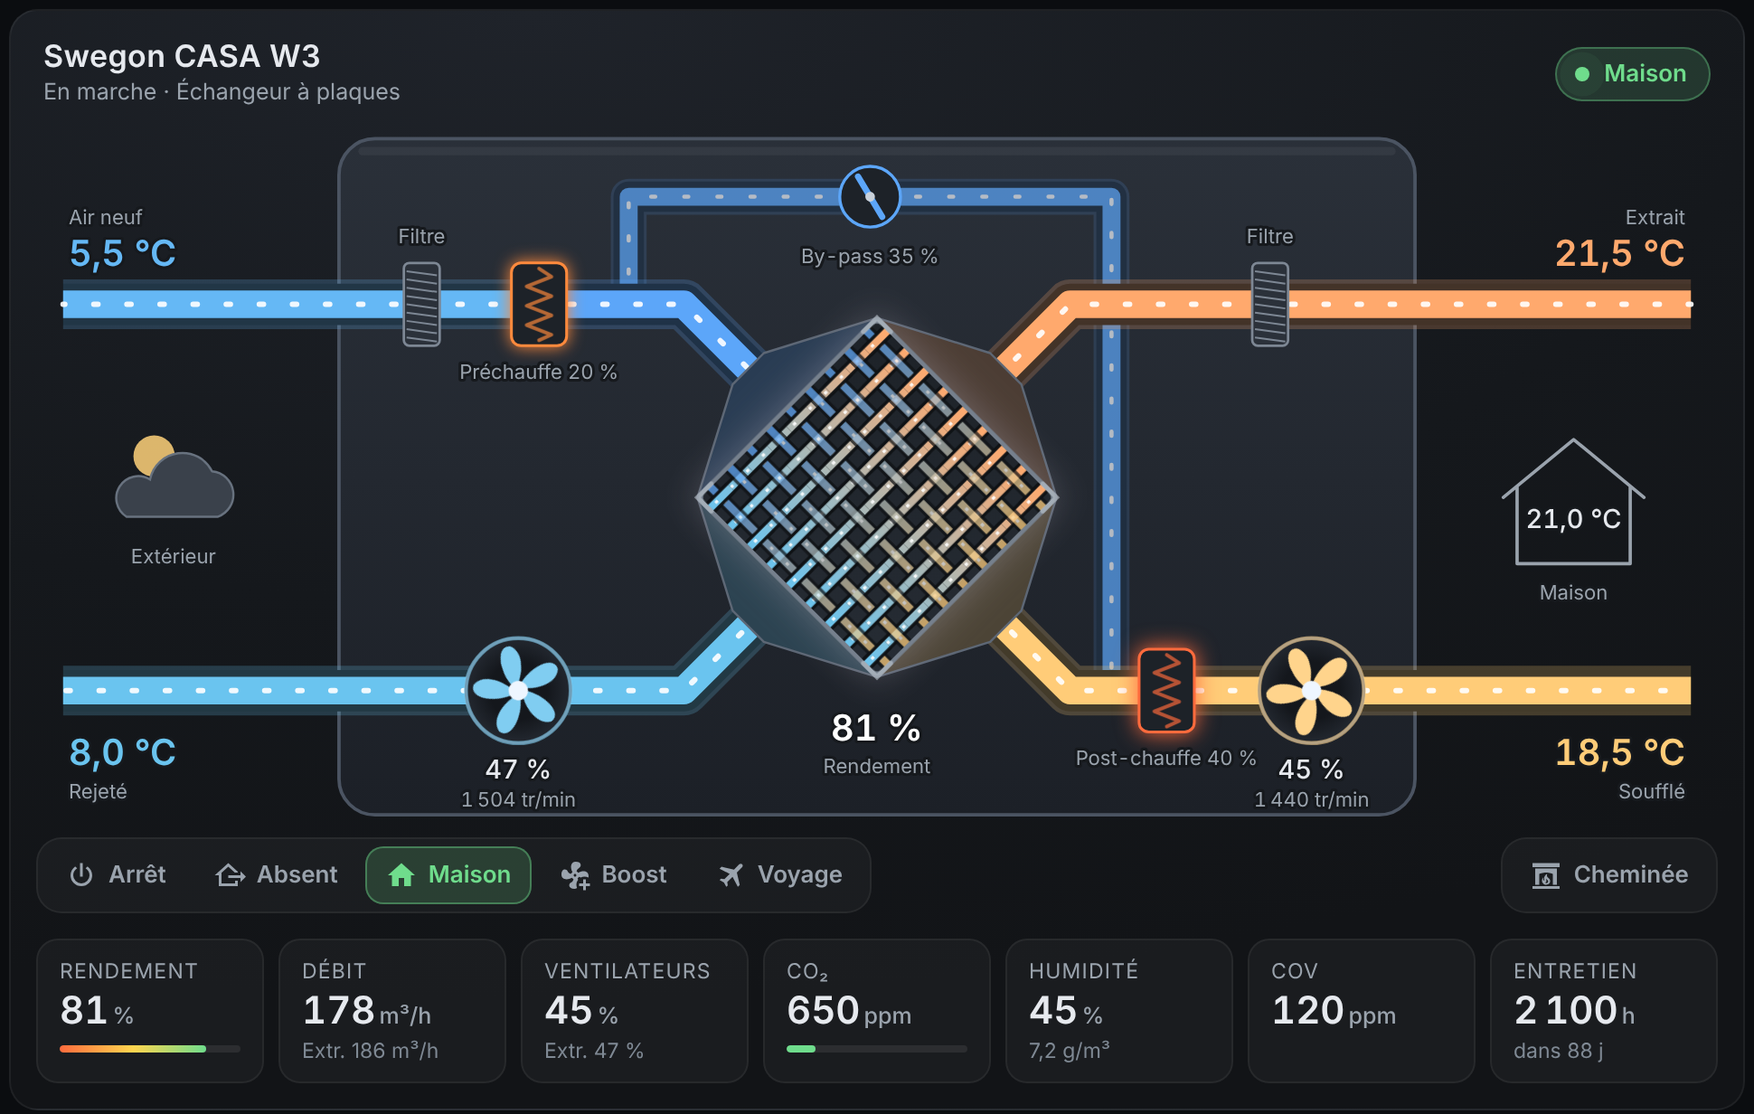
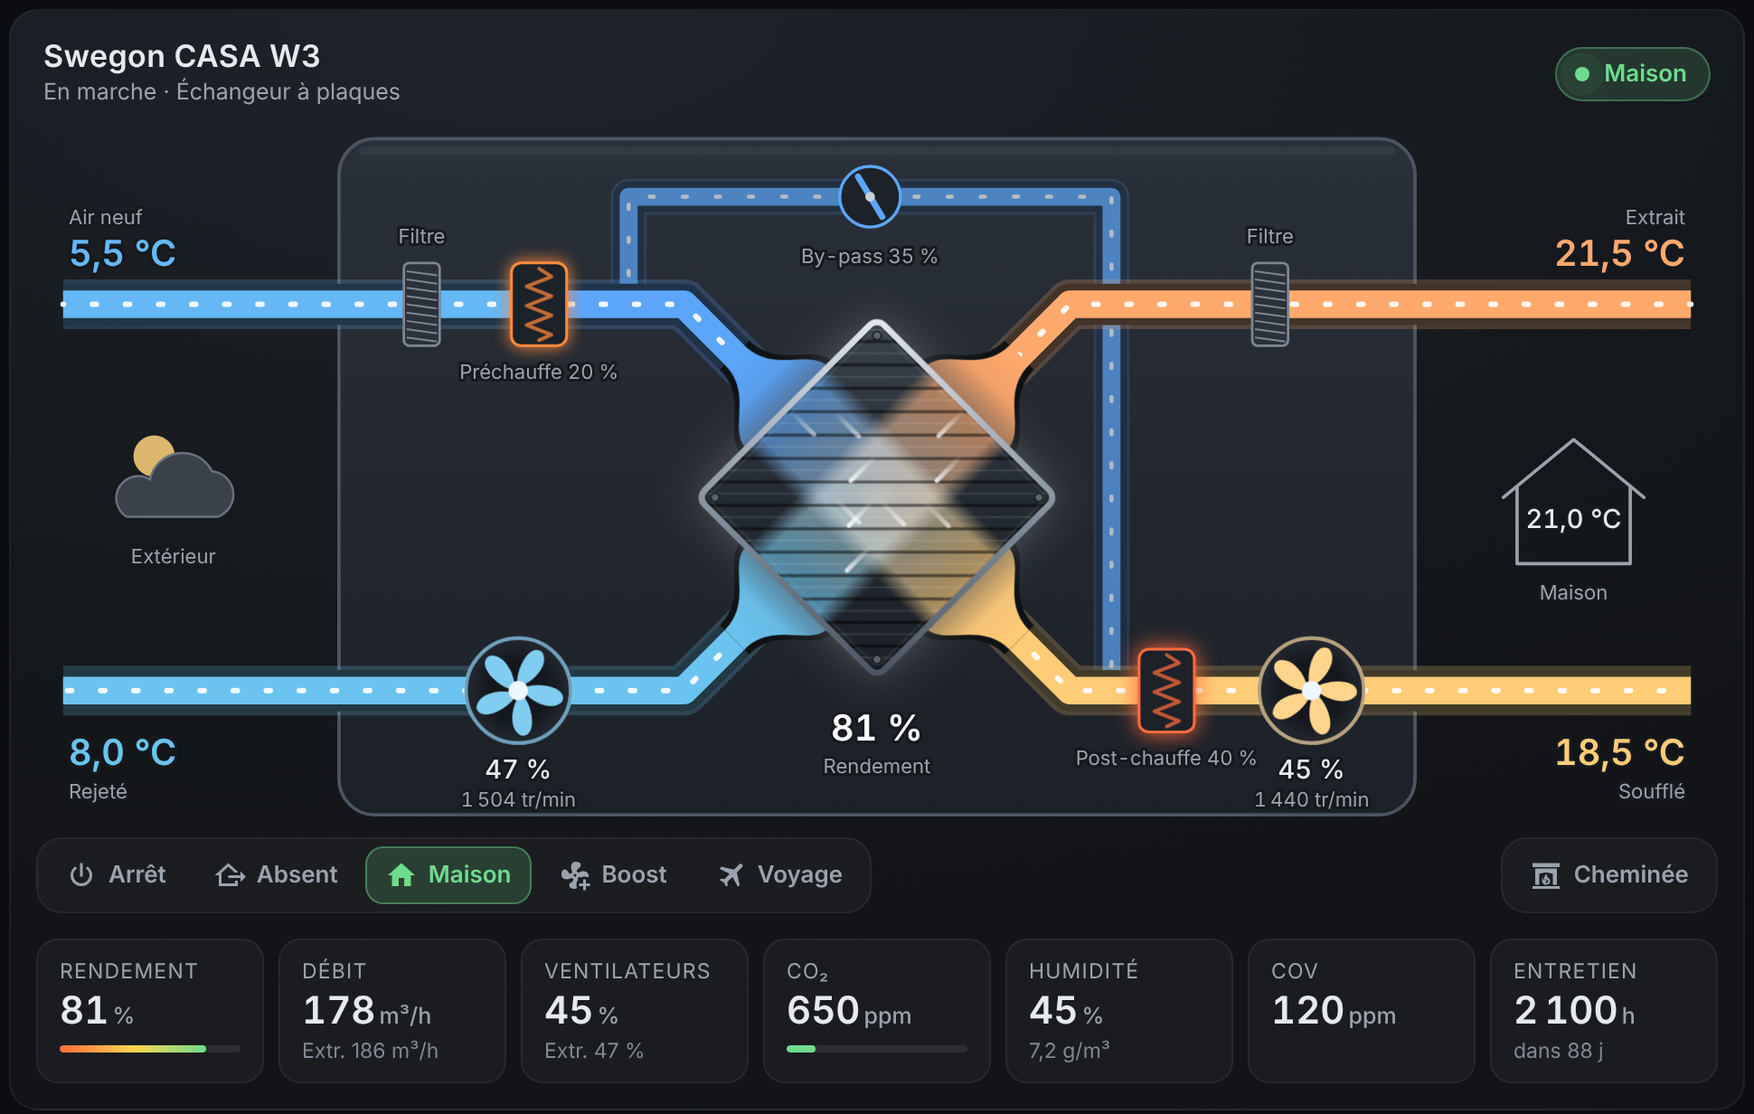
0.2.1: new plate exchanger drawing
Brushed-metal plate stack with a bevelled frame; each air stream crosses
it as a light ribbon coloured from inlet to outlet temperature, seen
through the plates, with streaks moving at fan speed. Curved collars join
the ducts to the exchanger faces. Replaces the woven channels.

Claude-Session: https://claude.ai/code/session_01EpAdakSgqwUMojDfF9bcbk

Changed region(s): [[0.4021, 0.2776, 0.6186, 0.6169], [0.2474, 0.586, 0.3402, 0.6786], [0.7113, 0.586, 0.7732, 0.6786]]

diff --git a/custom_components/swegon_casa/frontend/swegon-casa-card.js b/custom_components/swegon_casa/frontend/swegon-casa-card.js
@@ -14,7 +14,7 @@
  */
 
 const DOMAIN = "swegon_casa";
-const CARD_VERSION = "0.2.0";
+const CARD_VERSION = "0.2.1";
 
 /* ------------------------------------------------------------------------------------------ */
 /*  Entities: card key -> [domain, translation keys by preference]                            */
@@ -175,30 +175,73 @@ function esc(v) {
 /* ------------------------------------------------------------------------------------------ */
 const CX = 620, CY = 330, HS = 92; // exchanger centre, half side of the plate stack (local frame)
 
-function plateChannels() {
-  // Local frame: rotate(45) makes +x point down-right (fresh -> supply) and +y down-left (extract -> exhaust).
-  // Every other crossing shows the extract channel on top, so the two streams look woven like real plates.
-  const ks = [];
-  for (let i = 0; i < 9; i++) ks.push(-80 + i * 20);
-  let ext = "", fresh = "", weave = "";
-  ks.forEach((k, i) => {
-    ext += `<path d="M${k} ${-HS} V${HS}"/>`;
-    fresh += `<path d="M${-HS} ${k} H${HS}"/>`;
-    ks.forEach((k2, j) => { if ((i + j) % 2 === 0) weave += `<rect x="${k - 10}" y="${k2 - 10}" width="20" height="20"/>`; });
-  });
-  return { ext, fresh, weave };
-}
-
-function plenum(id, pts) {
-  return `<polygon id="${id}" class="plenum" points="${pts}"/>`;
+/*
+ * Cross-flow plate exchanger, drawn in a frame rotated by 45 degrees: local +x runs from the
+ * top-left face to the bottom-right face (fresh -> supply), local +y from the top-right face to
+ * the bottom-left face (extract -> exhaust). A brushed-metal plate stack carries two soft
+ * light ribbons, one per air stream, coloured from inlet to outlet temperature; they cross in
+ * the middle, where a glow breathes while heat is exchanged. Flared collars join the ducts.
+ */
+function exchanger(o) {
+  const { hs, band, lanes, flare, hc, hb, frost = "", bolts = true } = o;
+  const b = band / 2, f = flare;
+  let plates = "";
+  for (let c = -2 * hs + 12, i = 0; c < 2 * hs; c += 12, i++) {
+    plates += `<path class="${i % 2 ? "pl2" : "pl1"}" d="M${c + hs} ${-hs} L${c - hs} ${hs}"/>`;
+  }
+  // Light streaks sliding along each ribbon (CSS translate runs in the rotated frame, i.e. along the diagonal).
+  const sl = Math.max(8, band * 0.3), lanesY = lanes.length > 1 ? lanes : [0];
+  const streaks = lanesY.flatMap((y, li) => [0, 1].map((k) =>
+    `<path d="M${-sl} ${y} H0" style="--i:${(li * 0.37 + k * 0.5) % 1}"/>`)).join("");
+  const dotsF = streaks;
+  const dotsE = `<g transform="rotate(90)">${streaks}</g>`;
+  const lip = (w) => `M${-hs - f} ${-w} C${-hs - f * 0.45} ${-w} ${-hs - f * 0.35} ${-b - (w - hc)} ${-hs} ${-b - (w - hc)} V${b + (w - hc)} C${-hs - f * 0.35} ${b + (w - hc)} ${-hs - f * 0.45} ${w} ${-hs - f} ${w} Z`;
+  const collar = (id, rot, n) => `<g transform="rotate(${rot})"><path class="clb" d="${lip(hb)}"/><path id="${id}" class="cl" d="${lip(hc)}" fill="url(#gCl${n})"/></g>`;
+  const boltXY = hs - 9;
+  return {
+    defs: `
+    <linearGradient id="gFresh" gradientUnits="userSpaceOnUse" x1="${-hs}" y1="0" x2="${hs}" y2="0"><stop id="gf0" offset="0" stop-color="#64b5f6"/><stop id="gf1" offset="1" stop-color="#ffa36b"/></linearGradient>
+    <linearGradient id="gExt" gradientUnits="userSpaceOnUse" x1="0" y1="${-hs}" x2="0" y2="${hs}"><stop id="ge0" offset="0" stop-color="#ffa36b"/><stop id="ge1" offset="1" stop-color="#64b5f6"/></linearGradient>
+    <linearGradient id="gFthY" gradientUnits="userSpaceOnUse" x1="0" y1="${-b}" x2="0" y2="${b}"><stop offset="0" stop-color="#000"/><stop offset=".16" stop-color="#fff"/><stop offset=".84" stop-color="#fff"/><stop offset="1" stop-color="#000"/></linearGradient>
+    <linearGradient id="gFthX" gradientUnits="userSpaceOnUse" x1="${-b}" y1="0" x2="${b}" y2="0"><stop offset="0" stop-color="#000"/><stop offset=".16" stop-color="#fff"/><stop offset=".84" stop-color="#fff"/><stop offset="1" stop-color="#000"/></linearGradient>
+    <mask id="mRibF" maskUnits="userSpaceOnUse" x="${-hs}" y="${-hs}" width="${hs * 2}" height="${hs * 2}"><rect x="${-hs}" y="${-b}" width="${hs * 2}" height="${band}" fill="url(#gFthY)"/></mask>
+    <mask id="mRibE" maskUnits="userSpaceOnUse" x="${-hs}" y="${-hs}" width="${hs * 2}" height="${hs * 2}"><rect x="${-b}" y="${-hs}" width="${band}" height="${hs * 2}" fill="url(#gFthX)"/></mask>
+    <linearGradient id="gBevel" x1="0" y1="0" x2="1" y2="1"><stop offset="0" stop-color="#e3e8ee"/><stop offset=".5" stop-color="#8a96a3"/><stop offset="1" stop-color="#4b5462"/></linearGradient>
+    <linearGradient id="gMetal" x1="0" y1="0" x2="1" y2="1"><stop offset="0" stop-color="#3a424d"/><stop offset=".5" stop-color="#252b33"/><stop offset="1" stop-color="#1b2027"/></linearGradient>
+    <radialGradient id="gGlow"><stop offset="0" stop-color="#fff" stop-opacity=".55"/><stop offset=".45" style="stop-color:var(--glow,#fff)" stop-opacity=".45"/><stop offset="1" style="stop-color:var(--glow,#fff)" stop-opacity="0"/></radialGradient>
+    <linearGradient id="gStreak" gradientUnits="userSpaceOnUse" x1="${-sl}" y1="0" x2="0" y2="0"><stop offset="0" stop-color="#fff" stop-opacity="0"/><stop offset="1" stop-color="#fff" stop-opacity=".95"/></linearGradient>
+    <clipPath id="cHx"><rect x="${-hs}" y="${-hs}" width="${hs * 2}" height="${hs * 2}" rx="${hs * 0.08}"/></clipPath>
+    <linearGradient id="gCl0" gradientUnits="userSpaceOnUse" x1="${-hs - f}" y1="0" x2="${-hs}" y2="0"><stop offset="0" stop-opacity="1"/><stop offset=".55" stop-opacity=".95"/><stop offset="1" stop-opacity=".6"/></linearGradient>
+    <linearGradient id="gCl1" gradientUnits="userSpaceOnUse" x1="${-hs - f}" y1="0" x2="${-hs}" y2="0"><stop offset="0" stop-opacity="1"/><stop offset=".55" stop-opacity=".95"/><stop offset="1" stop-opacity=".6"/></linearGradient>
+    <linearGradient id="gCl2" gradientUnits="userSpaceOnUse" x1="${-hs - f}" y1="0" x2="${-hs}" y2="0"><stop offset="0" stop-opacity="1"/><stop offset=".55" stop-opacity=".95"/><stop offset="1" stop-opacity=".6"/></linearGradient>
+    <linearGradient id="gCl3" gradientUnits="userSpaceOnUse" x1="${-hs - f}" y1="0" x2="${-hs}" y2="0"><stop offset="0" stop-opacity="1"/><stop offset=".55" stop-opacity=".95"/><stop offset="1" stop-opacity=".6"/></linearGradient>`,
+    body: `
+      ${collar("cl_f", 0, 0)}${collar("cl_s", 180, 1)}${collar("cl_e", 90, 2)}${collar("cl_x", 270, 3)}
+      <g id="plates">
+        <rect class="hxbody" x="${-hs}" y="${-hs}" width="${hs * 2}" height="${hs * 2}" rx="${hs * 0.08}"/>
+        <g clip-path="url(#cHx)">
+          <g class="rib" id="rib_e"><rect mask="url(#mRibE)" x="${-b}" y="${-hs}" width="${band}" height="${hs * 2}" fill="url(#gExt)"/></g>
+          <g class="rib" id="rib_f"><rect mask="url(#mRibF)" x="${-hs}" y="${-b}" width="${hs * 2}" height="${band}" fill="url(#gFresh)"/></g>
+          <circle class="hglow" r="${b * 0.8}" fill="url(#gGlow)"/>
+          <g class="stack">${plates}</g>
+          <g class="dots" id="dots_e" style="--d:calc(var(--spde,1.3s) * 3.2);--L:${hs}px">${dotsE}</g>
+          <g class="dots" id="dots_f" style="--d:calc(var(--spd,1.3s) * 3.2);--L:${hs}px">${dotsF}</g>
+          <rect id="hxfrost" x="${-hs}" y="${-hs}" width="${hs * 2}" height="${hs * 2}" fill="#dff1ff"/>
+          <g id="hxice">${frost}</g>
+        </g>
+        <rect class="hxframe" x="${-hs}" y="${-hs}" width="${hs * 2}" height="${hs * 2}" rx="${hs * 0.08}" stroke="url(#gBevel)"/>
+        <rect class="hxinner" x="${-hs + 5}" y="${-hs + 5}" width="${hs * 2 - 10}" height="${hs * 2 - 10}" rx="${hs * 0.05}"/>
+        ${bolts ? [[-1, -1], [1, -1], [1, 1], [-1, 1]].map(([x, y]) => `<circle class="bolt" cx="${x * boltXY}" cy="${y * boltXY}" r="3"/>`).join("") : ""}
+      </g>`,
+  };
 }
 
 function buildSVG() {
-  const ch = plateChannels();
   const frost = [[-60, -55, 1], [40, -66, 0.8], [-20, 10, 0.9], [62, 30, 1.1], [-66, 52, 0.7], [18, 64, 0.8]]
     .map(([x, y, s], i) => `<path class="ice" style="animation-delay:${i * 0.35}s" d="${flake(x, y, s)}"/>`).join("");
   let spokes = "";
   for (let i = 0; i < 24; i++) spokes += `<path transform="rotate(${i * 15})" d="M0 -28 V-118"/>`;
+  const hxp = exchanger({ hs: HS, band: 84, lanes: [-22, 0, 22], flare: 54, hc: 10, hb: 15, frost });
   let pleats = "";
   for (let y = 166; y <= 214; y += 6) pleats += `M-11 ${y - 190} L11 ${y - 187}`;
 
@@ -208,14 +251,7 @@ function buildSVG() {
     <linearGradient id="gCase" x1="0" y1="0" x2="0" y2="1"><stop offset="0" stop-color="#2a3039"/><stop offset="1" stop-color="#1c2027"/></linearGradient>
     <linearGradient id="gHx" x1="0" y1="0" x2="1" y2="1"><stop offset="0" stop-color="#1d2228"/><stop offset="1" stop-color="#262c34"/></linearGradient>
     <radialGradient id="gFan" cx="0.5" cy="0.5" r="0.5"><stop offset="0.55" stop-color="#14171c"/><stop offset="1" stop-color="#232830"/></radialGradient>
-    <linearGradient id="gFresh" gradientUnits="userSpaceOnUse" x1="${-HS}" y1="0" x2="${HS}" y2="0">
-      <stop id="gf0" offset="0" stop-color="#64b5f6"/><stop id="gf1" offset="1" stop-color="#ffa36b"/>
-    </linearGradient>
-    <linearGradient id="gExt" gradientUnits="userSpaceOnUse" x1="0" y1="${-HS}" x2="0" y2="${HS}">
-      <stop id="ge0" offset="0" stop-color="#ffa36b"/><stop id="ge1" offset="1" stop-color="#64b5f6"/>
-    </linearGradient>
-    <clipPath id="cWeave">${ch.weave}</clipPath>
-    <clipPath id="cHx"><rect x="${-HS}" y="${-HS}" width="${HS * 2}" height="${HS * 2}" rx="6"/></clipPath>
+    ${hxp.defs}
   </defs>
 
   <!-- ===== Outside / house ===== -->
@@ -289,22 +325,7 @@ function buildSVG() {
   <!-- ===== Cross-flow plate exchanger ===== -->
   <g id="hx" class="clickable" data-e="efficiency">
     <g transform="translate(${CX} ${CY}) rotate(45)">
-      ${plenum("pl_f", `${-HS},${-HS} ${-HS},${HS} ${-HS - 40},16 ${-HS - 40},-16`)}
-      ${plenum("pl_s", `${HS},${-HS} ${HS},${HS} ${HS + 40},16 ${HS + 40},-16`)}
-      ${plenum("pl_e", `${-HS},${-HS} ${HS},${-HS} 16,${-HS - 40} -16,${-HS - 40}`)}
-      ${plenum("pl_x", `${-HS},${HS} ${HS},${HS} 16,${HS + 40} -16,${HS + 40}`)}
-      <g id="plates">
-        <rect class="hxbg" x="${-HS}" y="${-HS}" width="${HS * 2}" height="${HS * 2}" rx="6"/>
-        <g clip-path="url(#cHx)">
-          <g class="ch ext" id="ch_e"><g class="cb">${ch.ext}</g><g class="cc">${ch.ext}</g><g class="cf">${ch.ext}</g></g>
-          <g class="ch fresh" id="ch_f"><g class="cb">${ch.fresh}</g><g class="cc">${ch.fresh}</g><g class="cf">${ch.fresh}</g></g>
-          <g class="ch ext" id="ch_e2" clip-path="url(#cWeave)"><g class="cb">${ch.ext}</g><g class="cc">${ch.ext}</g><g class="cf">${ch.ext}</g></g>
-          <rect id="hxfrost" x="${-HS}" y="${-HS}" width="${HS * 2}" height="${HS * 2}" fill="#dff1ff"/>
-          <g id="hxice">${frost}</g>
-        </g>
-        <rect class="hxframe" x="${-HS}" y="${-HS}" width="${HS * 2}" height="${HS * 2}" rx="6"/>
-        <path class="hxedge" d="M${-HS} ${-HS + 14} V${-HS} H${-HS + 14} M${HS - 14} ${-HS} H${HS} V${-HS + 14} M${HS} ${HS - 14} V${HS} H${HS - 14} M${-HS + 14} ${HS} H${-HS} V${HS - 14}"/>
-      </g>
+      ${hxp.body}
     </g>
     <g id="rotorg">
       <circle cx="${CX}" cy="${CY}" r="124" class="rotorbg"/>
@@ -428,24 +449,30 @@ text{paint-order:stroke;stroke:#16191d;stroke-width:4px;stroke-linejoin:round;fo
 @keyframes spin{to{transform:rotate(360deg)}}
 
 /* plate exchanger */
-.plenum{fill:#1a1e24;stroke:#5d6775;stroke-width:1.6;stroke-linejoin:round}
-.hxbg{fill:url(#gHx)}
-.hxframe{fill:none;stroke:#76808d;stroke-width:3}
-.hxedge{fill:none;stroke:#c9d1da;stroke-width:3.5;stroke-linecap:round;opacity:.55}
+.hxbody{fill:url(#gMetal)}
+.stack path{fill:none;stroke-linecap:butt}
+.stack .pl1{stroke:rgba(255,255,255,.12);stroke-width:1.2}
+.stack .pl2{stroke:rgba(0,0,0,.5);stroke-width:2.2}
+.hxframe{fill:none;stroke-width:4.5}
+.hxinner{fill:none;stroke:rgba(255,255,255,.07);stroke-width:1.5}
+.bolt{fill:#59636f;stroke:#16191d;stroke-width:1}
 #plates{transition:filter .8s}
-#hx.on #plates{filter:drop-shadow(0 0 14px color-mix(in srgb,var(--glow,#9be3c0) 40%,transparent))}
-.ch path{fill:none}
-.ch .cb path{stroke:#0f1215;stroke-width:10}
-.ch .cc path{stroke-width:5.5;transition:opacity .8s}
-.ch.fresh .cc path{stroke:url(#gFresh)}
-.ch.ext .cc path{stroke:url(#gExt)}
-.ch .cf path{stroke:rgba(255,255,255,.9);stroke-width:2.2;stroke-dasharray:2.5 13.5;opacity:0}
-.ch{opacity:var(--co,1);transition:opacity .8s}
-#hx.on .ch .cf path{opacity:1;animation:flowc var(--spd,1.3s) linear infinite}
-#hx.on .ch.ext .cf path{animation-duration:var(--spde,1.3s)}
-.ch.off .cc path{opacity:.35}
+#hx.on #plates{filter:drop-shadow(0 0 16px color-mix(in srgb,var(--glow,#9be3c0) 35%,transparent))}
+.rib{mix-blend-mode:screen;opacity:calc(var(--co,1) * .85);transition:opacity .8s}
+.rib.off{opacity:.18}
+.hglow{opacity:0;transition:opacity .8s}
+#hx.on .hglow{animation:breathe 3.2s ease-in-out infinite}
+@keyframes breathe{0%,100%{opacity:.05}50%{opacity:.22}}
+.dots path{fill:none;stroke:url(#gStreak);stroke-width:3.2;stroke-linecap:round;opacity:0}
+#hx.on .dots path{animation:slide var(--d,4s) linear infinite;animation-delay:calc(var(--d,4s) * var(--i) * -1)}
+#dots_f{opacity:var(--co,1)}
+.dots.off path{animation:none!important;opacity:0!important}
+@keyframes slide{0%{transform:translateX(calc(var(--L) * -1));opacity:0}18%,82%{opacity:.85}100%{transform:translateX(var(--L));opacity:0}}
+.clb{fill:#0f1215}
+.cl{transition:fill .6s}
+#gCl0 stop,#gCl1 stop,#gCl2 stop,#gCl3 stop{stop-color:#4a525d;transition:stop-color .6s}
 #hxfrost,#hxice{opacity:0;transition:opacity .8s}
-#hx.defrost #hxfrost{opacity:.2}
+#hx.defrost #hxfrost{opacity:.22}
 #hx.defrost #hxice{opacity:1}
 .ice{fill:none;stroke:#e8f6ff;stroke-width:2.4;stroke-linecap:round}
 #hx.defrost .ice{animation:twinkle 2.4s ease-in-out infinite}
@@ -454,7 +481,7 @@ text{paint-order:stroke;stroke:#16191d;stroke-width:4px;stroke-linejoin:round;fo
 /* rotary exchanger (R series) */
 #rotorg{display:none}
 #hx.rotor #rotorg{display:inline}
-#hx.rotor #plates,#hx.rotor .plenum{display:none}
+#hx.rotor #plates,#hx.rotor .cl,#hx.rotor .clb{display:none}
 .rotorbg{fill:#1d2228;stroke:#76808d;stroke-width:3}
 .rim{fill:none;stroke:#8a96a3;stroke-width:3}.rim.thin{stroke-width:1.4;opacity:.6}
 .spokes path{stroke:#68727f;stroke-width:1.6}
@@ -801,13 +828,7 @@ class SwegonCasaCard extends HTMLElement {
     this._$("ge1").setAttribute("stop-color", cExh);
     hx.style.setProperty("--spd", sSpd);
     hx.style.setProperty("--spde", eSpd);
-    hx.style.setProperty("--glow", lerpColor(cExt, cPre, 0.5));
-    this._var("ch_f", "--co", (1 - 0.75 * bp).toFixed(2));
-    this._cls("ch_f", "off", !sOn);
-    this._cls("ch_e", "off", !eOn);
-    this._cls("ch_e2", "off", !eOn);
-    const plen = (id, c, on) => { const el = this._$(id); if (el) el.style.fill = on ? `color-mix(in srgb, ${c} 22%, #1a1e24)` : ""; };
-    plen("pl_f", cPre, sOn); plen("pl_s", cSup1, sOn); plen("pl_e", cExt, eOn); plen("pl_x", cExh, eOn);
+    this._exchanger(sOn, eOn, bp, cPre, cSup1, cExt, cExh);
     const rpm = this._n("rotor_rpm");
     hx.classList.toggle("spin", rotor && running && (rpm == null ? this._on("rotor") || !this._has("rotor") : rpm > 0));
     if (rpm) hx.style.setProperty("--rspd", `${clamp(30 / rpm, 2, 12).toFixed(1)}s`);
@@ -872,6 +893,16 @@ class SwegonCasaCard extends HTMLElement {
     this._txt("l_house", t.house);
     this._txt("t_room", this._T("room"));
     this._show("house", true);
+  }
+
+  _exchanger(sOn, eOn, bp, cIn, cOut, cExt, cExh) {
+    this._var("hx", "--co", (1 - 0.75 * bp).toFixed(2));
+    const card = this.shadowRoot.querySelector("ha-card");
+    if (card) card.style.setProperty("--glow", lerpColor(cExt, cIn, 0.5));
+    this._cls("rib_f", "off", !sOn); this._cls("dots_f", "off", !sOn);
+    this._cls("rib_e", "off", !eOn); this._cls("dots_e", "off", !eOn);
+    const collar = (gid, c, on) => this.shadowRoot.querySelectorAll(`#${gid} stop`).forEach((st) => { st.style.stopColor = on ? c : ""; });
+    collar("gCl0", cIn, sOn); collar("gCl1", cOut, sOn); collar("gCl2", cExt, eOn); collar("gCl3", cExh, eOn);
   }
 
   _updateControls(t, S) {
@@ -986,10 +1017,10 @@ const MINI_CSS = `
 .mini svg{width:100%;height:auto;display:block}
 .mini .duct .pb{stroke-width:11}.mini .duct .pg{stroke-width:13}.mini .duct .pc{stroke-width:6}
 .mini .duct .pf{stroke-width:1.8;stroke-dasharray:1.5 9}.mini .duct.on .pf{animation-name:flowm}
-.mini .ch .cb path{stroke-width:3.4}.mini .ch .cc path{stroke-width:2.3}.mini .ch .cf path{stroke-width:1;stroke-dasharray:1 6}
-.mini #hx.on .ch .cf path{animation-name:flowm2}
+.mini .dots path{stroke-width:1.6}
+.mini .stack .pl1,.mini .stack .pl2{stroke-width:.8}.mini .hxframe{stroke-width:1.6}.mini .hxinner{display:none}
 @keyframes flowm{to{stroke-dashoffset:-10.5}}
-@keyframes flowm2{to{stroke-dashoffset:-7}}
+@keyframes flowm2{to{stroke-dashoffset:-9.1}}
 .mtop{display:flex;align-items:center;justify-content:space-between;gap:8px;flex-wrap:wrap;min-width:0}
 .mname{font-size:14px;font-weight:600;white-space:nowrap;overflow:hidden;text-overflow:ellipsis}
 .mini .pill{padding:4px 10px 4px 8px;font-size:12px}
@@ -1006,31 +1037,16 @@ const MINI_CSS = `
 `;
 
 function buildMiniSVG() {
-  const hs = 26;
-  let ext = "", fresh = "";
-  for (let i = 0; i < 6; i++) {
-    const k = -21.5 + i * 8.6;
-    ext += `<path d="M${k.toFixed(1)} ${-hs} V${hs}"/>`;
-    fresh += `<path d="M${-hs} ${k.toFixed(1)} H${hs}"/>`;
-  }
+  const hx = exchanger({ hs: 26, band: 26, lanes: [0], flare: 12, hc: 3, hb: 5.5, bolts: false });
   return `
 <svg viewBox="0 0 200 122" xmlns="http://www.w3.org/2000/svg">
-  <defs>
-    <linearGradient id="gFresh" gradientUnits="userSpaceOnUse" x1="${-hs}" y1="0" x2="${hs}" y2="0"><stop id="gf0" offset="0" stop-color="#64b5f6"/><stop id="gf1" offset="1" stop-color="#ffa36b"/></linearGradient>
-    <linearGradient id="gExt" gradientUnits="userSpaceOnUse" x1="0" y1="${-hs}" x2="0" y2="${hs}"><stop id="ge0" offset="0" stop-color="#ffa36b"/><stop id="ge1" offset="1" stop-color="#64b5f6"/></linearGradient>
-    <linearGradient id="gHx" x1="0" y1="0" x2="1" y2="1"><stop offset="0" stop-color="#1d2228"/><stop offset="1" stop-color="#262c34"/></linearGradient>
-  </defs>
+  <defs>${hx.defs}</defs>
   ${pipe("mp_fresh", "M4 22 H58 L82 42", "duct")}
   ${pipe("mp_ext", "M196 22 H142 L118 42", "duct")}
   ${pipe("mp_exh", "M82 80 L58 100 H4", "duct")}
   ${pipe("mp_sup", "M118 80 L142 100 H196", "duct")}
   <g id="hx" class="mclick" data-e="efficiency">
-    <g transform="translate(100 61) rotate(45)">
-      <rect class="hxbg" x="${-hs}" y="${-hs}" width="${hs * 2}" height="${hs * 2}" rx="3"/>
-      <g class="ch ext" id="ch_e"><g class="cb">${ext}</g><g class="cc">${ext}</g><g class="cf">${ext}</g></g>
-      <g class="ch fresh" id="ch_f"><g class="cb">${fresh}</g><g class="cc">${fresh}</g><g class="cf">${fresh}</g></g>
-      <rect class="hxframe" x="${-hs}" y="${-hs}" width="${hs * 2}" height="${hs * 2}" rx="3" style="stroke-width:2"/>
-    </g>
+    <g transform="translate(100 61) rotate(45)">${hx.body}</g>
   </g>
 </svg>`;
 }
@@ -1099,7 +1115,7 @@ class SwegonCasaMiniCard extends SwegonCasaCard {
     this._$("gf1").setAttribute("stop-color", cSup);
     this._$("ge0").setAttribute("stop-color", cExt);
     this._$("ge1").setAttribute("stop-color", cExh);
-    this._var("ch_f", "--co", (1 - 0.75 * (S.bypass ? clamp(S.bypass, 0, 100) / 100 : 0)).toFixed(2));
+    this._exchanger(S.sOn, S.eOn, S.bypass ? clamp(S.bypass, 0, 100) / 100 : 0, cFresh, cSup, cExt, cExh);
 
     const deg = (v) => (v == null ? "—" : `${this._f(v, 1)}<small>°</small>`);
     this._html("m_out", deg(S.fresh));

diff --git a/custom_components/swegon_casa/const.py b/custom_components/swegon_casa/const.py
@@ -6,7 +6,7 @@ from typing import Final
 
 DOMAIN: Final = "swegon_casa"
 MANUFACTURER: Final = "Swegon"
-VERSION: Final = "0.2.0"  # keep in sync with manifest.json
+VERSION: Final = "0.2.1"  # keep in sync with manifest.json
 
 CONF_KIND: Final = "kind"  # "serial" or "tcp"
 CONF_SERIAL_PORT: Final = "serial_port"

diff --git a/README.md b/README.md
@@ -50,7 +50,7 @@ type: custom:swegon-casa-card        # ou custom:swegon-casa-mini-card
 
 Ce que montre le schéma :
 
-- **Échangeur à plaques à flux croisés** : l'air neuf (haut gauche → bas droite) et l'air extrait (haut droite → bas gauche) se croisent dans l'empilement de plaques. Chaque canal est coloré de sa température d'entrée à sa température de sortie, et les flux s'animent à la vitesse des ventilateurs. Givre et flocons pendant le dégivrage. Les centrales de la série R affichent une roue qui tourne à sa vitesse réelle.
+- **Échangeur à plaques à flux croisés** : l'air neuf (haut gauche → bas droite) et l'air extrait (haut droite → bas gauche) traversent le bloc de plaques en deux faisceaux lumineux qui se croisent au centre, colorés de leur température d'entrée à leur température de sortie. Des traînées lumineuses avancent à la vitesse des ventilateurs. Givre et flocons pendant le dégivrage. Les centrales de la série R affichent une roue qui tourne à sa vitesse réelle.
 - **By-pass** : le volet pivote selon l'ouverture en %, le canal de contournement s'allume et les canaux d'air neuf de l'échangeur s'estompent d'autant.
 - **Batteries** de préchauffe et de post-chauffe, qui rougeoient selon leur puissance (bleu en rafraîchissement), **filtres** (orange quand ils sont à remplacer), **ventilateurs** avec commande en % et vitesse, températures des quatre flux et de l'ambiance.
 - **Modes** Arrêt / Absent / Maison / Boost / Voyage et bouton Cheminée, **alertes** avec bouton « Acquitter » pour le filtre et l'entretien, **tuiles** : rendement, débits en m³/h, ventilateurs, CO₂, humidité, COV, heures avant entretien.
